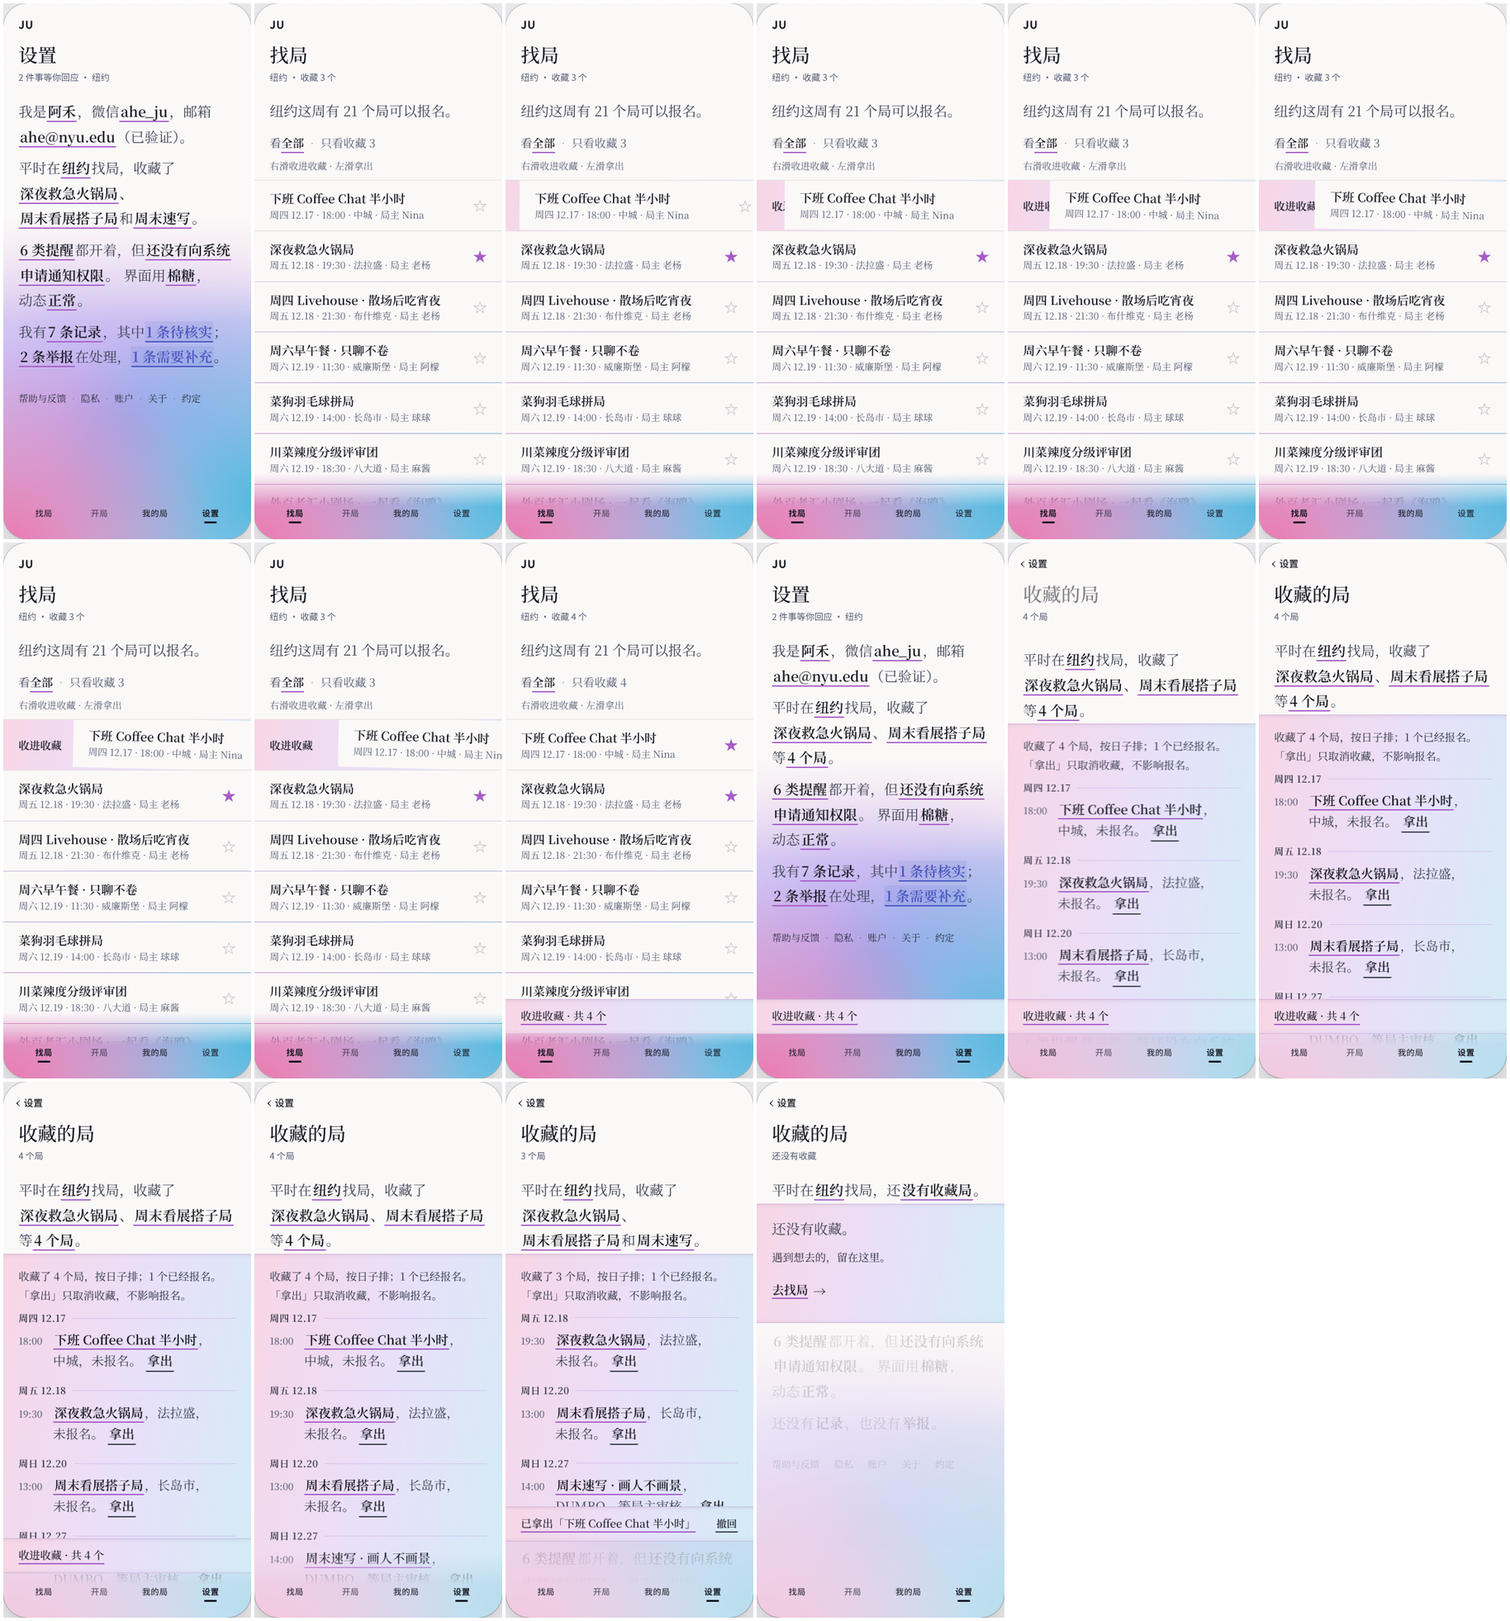
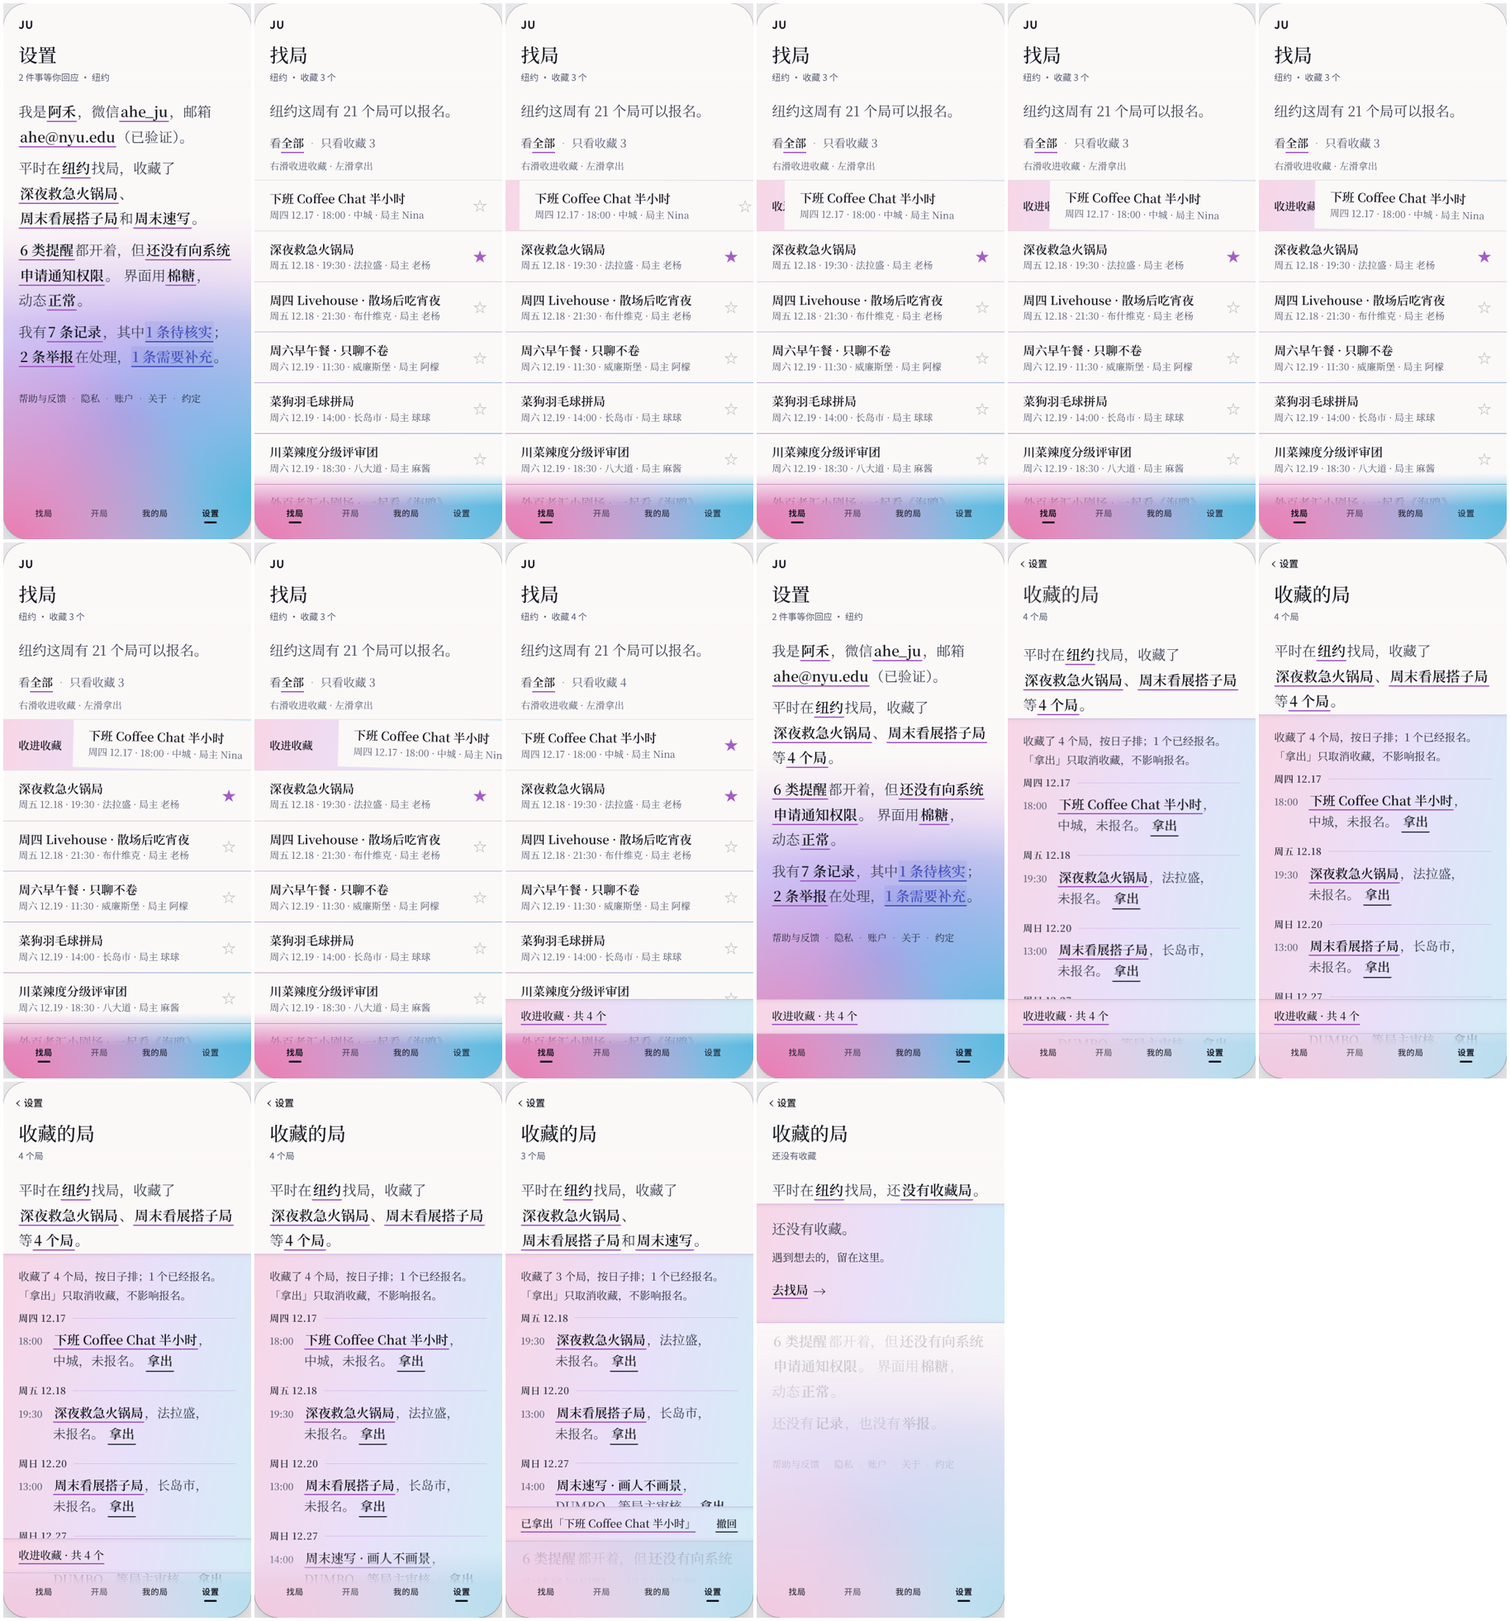
WIP checkpoint: in-flight Settings R2 builder files
Claude-Session: https://claude.ai/code/session_01HHMV8n5dsCb7GnB9ZyBH3p

Changed region(s): [[0.6548, 0.404, 0.8107, 0.6215], [0.686, 0.3418, 0.7172, 0.3729]]

diff --git a/settings-r2/concepts/src/S01.dc.html b/settings-r2/concepts/src/S01.dc.html
@@ -580,22 +580,32 @@ textarea.s01-in{min-height:1lh}
         </section>
       </sc-if>
 
-      <!-- FAVORITES · the count is the page; each 局 is a headline with its date as a numeral -->
+      <!-- FAVORITES · the count is the page; the first entry leads (title, time, place, host); the rest are dated contents lines -->
       <sc-if value="{{c.nav.on.favorites}}" hint-placeholder-val="{{false}}">
         <section class="s01-pg {{c.nav.cls.favorites}}" data-surface="favorites" data-pg="favorites">
           <header class="s01-hd" data-header><div class="s01-tb s01-fa"><div class="s01-tbx"><button type="button" class="s01-back" data-act="back" onClick="{{c.nav.back}}">{{v.bk.favorites}}</button></div></div><div class="s01-fa"><div class="s01-ttl"><span>收藏的局</span></div></div><div class="s01-fa"><div class="s01-aux"><span>{{v.fav.aux}}</span></div></div></header>
           <div class="s01-sc" data-scroller="favorites" onScroll="{{v.h.sc}}">
             <div class="s01-sp2"></div>
             <div class="s01-lead"><span class="s01-lab s01-fx">{{v.fav.kicker}}</span>
-              <sc-if value="{{v.fav.any}}"><span class="s01-lv" data-m="fav-n"><b class="s01-n">{{v.fav.n}}</b>个局</span><p class="s01-ls s01-fx">收藏不等于报名；报名后的进度在「我的局」。</p></sc-if>
-              <sc-if value="{{v.fav.empty}}"><span class="s01-lv" data-m="fav-n">{{c.fav.emptyCopy.title}}</span><p class="s01-ls s01-fx">{{c.fav.emptyCopy.body}}</p><button type="button" class="s01-go s01-fx" onClick="{{c.fav.goFind}}">{{c.fav.emptyCopy.cta}} ›</button></sc-if>
+              <sc-if value="{{v.fav.any}}"><span class="s01-lv{{v.fav.fl}}" data-m="fav-n"><b class="s01-n">{{v.fav.n}}</b>个局</span><p class="s01-ls s01-fx">收藏不等于报名；报名后的进度在「我的局」。</p></sc-if>
+              <sc-if value="{{v.fav.empty}}"><span class="s01-lv{{v.fav.fl}}" data-m="fav-n">{{c.fav.emptyCopy.title}}</span><p class="s01-ls s01-fx">{{c.fav.emptyCopy.body}}</p><button type="button" class="s01-go s01-fx" onClick="{{c.fav.goFind}}">{{c.fav.emptyCopy.cta}} ›</button></sc-if>
             </div>
-            <sc-if value="{{v.fav.hasActive}}"><div class="s01-ents s01-fx"><sc-for list="{{v.fav.active}}" as="r" hint-placeholder-count="3"><div class="s01-ent s01-ex">
-              <button type="button" class="s01-entb s01-nf" data-rid="{{r.id}}" data-origin="fav-{{r.id}}" onClick="{{r.open}}"><span class="s01-dt"><b>{{r.md}}</b><i>{{r.wt}}</i></span><span class="s01-et"><span class="s01-rt" data-m="ev-{{r.id}}">{{r.title}}</span></span></button>
-              <div class="s01-exm"><span class="s01-et"><span class="s01-rm">{{r.meta}}</span><sc-if value="{{r.rel}}"><span class="s01-rel">{{r.rel}}</span></sc-if></span><button type="button" class="s01-x" data-act="unfav" data-rid="{{r.id}}" onClick="{{r.remove}}">拿出</button></div></div></sc-for></div></sc-if>
-            <sc-if value="{{v.fav.hasArch}}"><div class="s01-fx"><span class="s01-lab s01-gl">已结束 · 已取消 · {{v.fav.archN}}</span><div class="s01-ents"><sc-for list="{{v.fav.archived}}" as="r" hint-placeholder-count="2"><div class="s01-ent s01-ex">
-              <button type="button" class="s01-entb s01-nf" data-rid="{{r.id}}" onClick="{{r.open}}"><span class="s01-dt"><b>{{r.md}}</b><i>{{r.status}}</i></span><span class="s01-et"><span class="s01-rt" data-m="ev-{{r.id}}">{{r.title}}</span></span></button>
-              <div class="s01-exm"><span class="s01-et"><span class="s01-rm">{{r.meta}}</span></span><button type="button" class="s01-x" data-act="unfav" data-rid="{{r.id}}" onClick="{{r.remove}}">拿出</button></div></div></sc-for></div></div></sc-if>
+            <sc-if value="{{v.fav.hasActive}}"><div class="s01-ents s01-fx">
+              <sc-if value="{{v.fav.lead}}"><div class="s01-lent{{v.fav.lead.cls}}">
+                <button type="button" class="s01-lentb" data-rid="{{v.fav.lead.id}}" data-origin="fav-{{v.fav.lead.id}}" onClick="{{v.fav.lead.open}}">
+                  <span class="s01-lab">{{v.fav.lead.kicker}}</span>
+                  <span class="s01-rt s01-rt-xl" data-m="ev-{{v.fav.lead.id}}">{{v.fav.lead.title}}</span>
+                  <span class="s01-tg"><span><span class="s01-lab">时间</span><span class="s01-bign">{{v.fav.lead.time}}</span><span class="s01-bigs">{{v.fav.lead.day}}</span></span><span class="s01-stack"><span><span class="s01-lab">地点</span><span class="s01-v2">{{v.fav.lead.hood}}</span></span><span><span class="s01-lab">局主</span><span class="s01-v2">{{v.fav.lead.host}}</span></span></span></span>
+                </button>
+                <div class="s01-lentf"><span class="s01-rel{{v.fav.lead.relCls}}">{{v.fav.lead.rel}}</span><button type="button" class="s01-x" data-act="unfav" data-rid="{{v.fav.lead.id}}" onClick="{{v.fav.lead.rm}}">拿出</button></div>
+              </div></sc-if>
+              <sc-for list="{{v.fav.rest}}" as="r" hint-placeholder-count="2"><div class="s01-ent s01-ex s01-yield{{r.ycls}}"><div class="s01-yi">
+                <button type="button" class="s01-entb s01-nf" data-rid="{{r.id}}" data-origin="fav-{{r.id}}" onClick="{{r.open}}"><span class="s01-dt"><b>{{r.md}}</b><i>{{r.wt}}</i></span><span class="s01-et"><span class="s01-rt" data-m="ev-{{r.id}}">{{r.title}}</span></span></button>
+                <div class="s01-exm"><span class="s01-et"><span class="s01-rm">{{r.meta}}</span><sc-if value="{{r.rel}}"><span class="s01-rel">{{r.rel}}</span></sc-if></span><button type="button" class="s01-x" data-act="unfav" data-rid="{{r.id}}" onClick="{{r.rm}}">拿出</button></div></div></div></sc-for>
+            </div></sc-if>
+            <sc-if value="{{v.fav.hasArch}}"><div class="s01-fx"><span class="s01-lab s01-gl">已结束 · 已取消 · {{v.fav.archN}}</span><div class="s01-ents"><sc-for list="{{v.fav.archived}}" as="r" hint-placeholder-count="2"><div class="s01-ent s01-ex s01-yield{{r.ycls}}"><div class="s01-yi">
+                <button type="button" class="s01-entb s01-nf" data-rid="{{r.id}}" data-origin="fav-{{r.id}}" onClick="{{r.open}}"><span class="s01-dt"><b>{{r.md}}</b><i>{{r.status}}</i></span><span class="s01-et"><span class="s01-rt" data-m="ev-{{r.id}}">{{r.title}}</span></span></button>
+                <div class="s01-exm"><span class="s01-et"><span class="s01-rm">{{r.meta}}</span><sc-if value="{{r.rel}}"><span class="s01-rel">{{r.rel}}</span></sc-if></span><button type="button" class="s01-x" data-act="unfav" data-rid="{{r.id}}" onClick="{{r.rm}}">拿出</button></div></div></div></sc-for></div></div></sc-if>
           </div>
         </section>
       </sc-if>
@@ -686,7 +696,7 @@ textarea.s01-in{min-height:1lh}
               <sc-if value="{{v.rec.empty}}"><span class="s01-lv">{{c.recs.emptyText}}</span></sc-if>
               <p class="s01-ls s01-fx">{{c.recs.help}}</p></div>
             <sc-for list="{{v.rec.groups}}" as="g" hint-placeholder-count="3"><div class="s01-grp s01-fx"><div class="s01-gh"><b>{{g.count}}</b><span>{{g.title}}</span></div>
-              <div class="s01-ents"><sc-for list="{{g.rows}}" as="r" hint-placeholder-count="2"><div class="s01-ent"><button type="button" class="s01-entb" data-rid="{{r.id}}" data-origin="rec-{{r.id}}" onClick="{{r.open}}"><span class="s01-dt"><b>{{r.md}}</b><i>{{r.wt}}</i></span><span class="s01-et"><span class="s01-rt" data-m="rec-{{r.id}}">{{r.title}}</span><span class="s01-rm">{{r.meta}}</span></span><span class="s01-flag{{r.fcls}}">{{r.flag}}</span></button></div></sc-for></div></div></sc-for>
+              <div class="s01-ents"><sc-for list="{{g.rows}}" as="r" hint-placeholder-count="2"><div class="s01-ent"><button type="button" class="s01-entb s01-nf" data-rid="{{r.id}}" data-origin="rec-{{r.id}}" onClick="{{r.open}}"><span class="s01-dt"><b>{{r.md}}</b><i>{{r.wt}}</i></span><span class="s01-et"><span class="s01-rt" data-m="rec-{{r.id}}">{{r.title}}</span><span class="s01-rm">{{r.meta}}</span><sc-if value="{{r.flag}}"><span class="s01-fl2{{r.fcls}}">{{r.flag}}</span></sc-if></span></button></div></sc-for></div></div></sc-for>
             <div class="s01-blk2 s01-fx"><span class="s01-lab s01-gl">记录怎样算</span><p class="s01-read">{{c.recs.creditSettings}}</p><p class="s01-note">{{c.recs.quotaNo}}</p></div>
           </div>
         </section>
@@ -716,7 +726,7 @@ textarea.s01-in{min-height:1lh}
         </section>
       </sc-if>
 
-      <!-- REPORTS -->
+      <!-- REPORTS · the report that needs you leads with its status said large; the rest are dated contents lines -->
       <sc-if value="{{c.nav.on.reports}}" hint-placeholder-val="{{false}}">
         <section class="s01-pg {{c.nav.cls.reports}}" data-surface="reports" data-pg="reports">
           <header class="s01-hd" data-header><div class="s01-tb s01-fa"><div class="s01-tbx"><button type="button" class="s01-back" data-act="back" onClick="{{c.nav.back}}">{{v.bk.reports}}</button></div></div><div class="s01-fa"><div class="s01-ttl"><span>我的举报</span></div></div><div class="s01-fa"><div class="s01-aux"><span>{{c.sum.reportLabel}}</span></div></div></header>
@@ -726,7 +736,18 @@ textarea.s01-in{min-height:1lh}
               <sc-if value="{{v.rp.any}}"><span class="s01-lv" data-m="rep-n"><b class="s01-n">{{v.rp.n}}</b>条</span></sc-if>
               <sc-if value="{{v.rp.empty}}"><span class="s01-lv">{{c.reps.emptyText}}</span></sc-if>
               <p class="s01-ls s01-fx">{{c.reps.note}}</p></div>
-            <sc-if value="{{v.rp.any}}"><div class="s01-ents s01-fx"><sc-for list="{{v.rp.rows}}" as="r" hint-placeholder-count="2"><div class="s01-ent"><button type="button" class="s01-entb" data-rid="{{r.id}}" data-origin="rep-{{r.id}}" onClick="{{r.open}}"><span class="s01-dt"><b>{{r.md}}</b><i>{{r.wt}}</i></span><span class="s01-et"><span class="s01-rt" data-m="rep-{{r.id}}">{{r.title}}</span><span class="s01-rm">{{r.meta}}</span></span><span class="s01-flag{{r.fcls}}">{{r.flag}}</span></button></div></sc-for></div></sc-if>
+            <sc-if value="{{v.rp.any}}"><div class="s01-ents s01-fx">
+              <sc-if value="{{v.rp.lead}}"><div class="s01-lent">
+                <button type="button" class="s01-lentb" data-rid="{{v.rp.lead.id}}" data-origin="rep-{{v.rp.lead.id}}" onClick="{{v.rp.lead.open}}">
+                  <span class="s01-lab">{{v.rp.lead.kicker}}</span>
+                  <span class="s01-rt s01-rt-xl" data-m="rep-{{v.rp.lead.id}}">{{v.rp.lead.title}}</span>
+                  <span class="s01-say s01-say-s{{v.rp.lead.sayCls}}">{{v.rp.lead.status}}</span>
+                  <span class="s01-tg"><span><span class="s01-lab">更新</span><span class="s01-bign">{{v.rp.lead.md}}</span><span class="s01-bigs">{{v.rp.lead.hm}}</span></span><span class="s01-stack"><span><span class="s01-lab">举报对象</span><span class="s01-v2">{{v.rp.lead.who}}</span></span><span><span class="s01-lab">本地编号</span><span class="s01-v2 s01-v2n">{{v.rp.lead.no}}</span></span></span></span>
+                  <span class="s01-go2">{{v.rp.lead.cta}}</span>
+                </button>
+              </div></sc-if>
+              <sc-for list="{{v.rp.rest}}" as="r" hint-placeholder-count="1"><div class="s01-ent"><button type="button" class="s01-entb s01-nf" data-rid="{{r.id}}" data-origin="rep-{{r.id}}" onClick="{{r.open}}"><span class="s01-dt"><b>{{r.md}}</b><i>{{r.wt}}</i></span><span class="s01-et"><span class="s01-rt" data-m="rep-{{r.id}}">{{r.title}}</span><span class="s01-rm">{{r.meta}}</span><span class="s01-fl2{{r.fcls}}">{{r.flag}}</span></span></button></div></sc-for>
+            </div></sc-if>
             <p class="s01-note s01-fx">{{c.reps.mock}}</p>
           </div>
         </section>
@@ -782,7 +803,7 @@ textarea.s01-in{min-height:1lh}
         </section>
       </sc-if>
 
-      <!-- ACCOUNT · the only page (with 关于) that states the demo boundary -->
+      <!-- ACCOUNT · the only page (with 关于) that states the demo boundary; what stays on this device is said in numbers -->
       <sc-if value="{{c.nav.on.account}}" hint-placeholder-val="{{false}}">
         <section class="s01-pg {{c.nav.cls.account}}" data-surface="account" data-pg="account">
           <header class="s01-hd" data-header><div class="s01-tb s01-fa"><div class="s01-tbx"><button type="button" class="s01-back" data-act="back" onClick="{{c.nav.back}}">{{v.bk.account}}</button></div></div><div class="s01-fa"><div class="s01-ttl"><span>账户与本机数据</span></div></div><div class="s01-fa"><div class="s01-aux"><span>{{c.acct.device}}</span></div></div></header>
@@ -790,24 +811,26 @@ textarea.s01-in{min-height:1lh}
             <div class="s01-sp2"></div>
             <div class="s01-lead"><span class="s01-lab s01-fx">本机会话</span><span class="s01-lv{{v.ac.fl}}">{{v.ac.state}}</span><p class="s01-ls s01-fx">{{v.ac.line}}</p>
               <sc-if value="{{c.acct.ended}}"><button type="button" class="s01-cta s01-cta-in s01-fx" data-act="restart" onClick="{{v.ac.restart}}">重新开始</button></sc-if></div>
-            <p class="s01-read s01-fx">{{c.acct.noAccount}}</p>
-            <div class="s01-vg s01-fx"><div><span class="s01-lab">设备</span><span class="s01-v2">{{c.acct.device}}</span></div><div><span class="s01-lab">本机数据</span><span class="s01-v2 s01-v2n">{{v.ac.key}}</span></div></div>
-            <p class="s01-sub s01-fx">{{c.acct.storageNote}}</p>
+            <div class="s01-fx"><span class="s01-lab s01-gl">{{v.ac.keepLabel}}</span><div class="s01-cnts"><sc-for list="{{v.ac.counts}}" as="x" hint-placeholder-count="4"><div><b>{{x.n}}</b><span>{{x.label}}</span></div></sc-for></div></div>
+            <p class="s01-read s01-fx">{{c.acct.storageNote}}</p>
+            <p class="s01-note s01-fx">{{c.acct.noAccount}}</p>
             <sc-if value="{{c.acct.demo}}"><div class="s01-acts s01-fx"><button type="button" class="s01-go s01-danger" data-act="end" onClick="{{c.acct.end}}">退出登录（本地演示）</button></div></sc-if>
           </div>
         </section>
       </sc-if>
 
-      <!-- ABOUT -->
+      <!-- ABOUT · the agreement in force is the protagonist; its three groups are counted; build facts are annotations -->
       <sc-if value="{{c.nav.on.about}}" hint-placeholder-val="{{false}}">
         <section class="s01-pg {{c.nav.cls.about}}" data-surface="about" data-pg="about">
           <header class="s01-hd" data-header><div class="s01-tb s01-fa"><div class="s01-tbx"><button type="button" class="s01-back" data-act="back" onClick="{{c.nav.back}}">{{v.bk.about}}</button></div></div><div class="s01-fa"><div class="s01-ttl"><span>关于与规则</span></div></div><div class="s01-fa"><div class="s01-aux"><span>{{c.about.version}}</span></div></div></header>
           <div class="s01-sc" data-scroller="about" onScroll="{{v.h.sc}}">
             <div class="s01-sp2"></div>
-            <div class="s01-lead"><span class="s01-lab s01-fx">参加约定版本</span><span class="s01-lv s01-lv-c">{{c.about.rulesVersion}}</span><p class="s01-ls s01-fx">{{c.about.demo}}</p></div>
-            <div class="s01-list s01-fx"><button type="button" class="s01-row" data-origin="rules" onClick="{{c.about.goRules}}"><span class="s01-rb"><span class="s01-rt" data-m="rules-n"><b class="s01-n">18</b>条约定</span><span class="s01-rm">确认 · 信用 · 赴约</span></span><span class="s01-rr is-flag">读全文 ›</span></button></div>
+            <div class="s01-lead"><span class="s01-lab s01-fx">现行参加约定 · 第 1 版</span><span class="s01-lv" data-m="rules-n"><b class="s01-n">18</b>条约定</span><p class="s01-ls s01-fx">{{c.about.demo}}</p></div>
+            <button type="button" class="s01-cnts is-3 s01-fx" data-origin="rules" aria-label="读全部约定" onClick="{{c.about.goRules}}"><sc-for list="{{v.ab.groups}}" as="g" hint-placeholder-count="3"><span><b>{{g.n}}</b><span>{{g.name}}</span><i>{{g.line}}</i></span></sc-for></button>
+            <div class="s01-acts s01-fx"><button type="button" class="s01-go" data-origin="rules" onClick="{{c.about.goRules}}">读全部约定 ›</button></div>
             <p class="s01-read s01-fx">{{c.about.policyNote}}</p>
-            <div class="s01-vg s01-fx"><div><span class="s01-lab">构建</span><span class="s01-v2 s01-v2n">{{v.ab.built}}</span></div><div><span class="s01-lab">可选城市</span><span class="s01-v2">{{c.about.cities}} 座</span></div></div>
+            <div class="s01-vg s01-fx"><div><span class="s01-lab">原型</span><span class="s01-v2">{{c.about.version}}</span></div><div><span class="s01-lab">构建</span><span class="s01-v2 s01-v2n">{{v.ab.built}}</span></div></div>
+            <p class="s01-note s01-fx">约定编号 {{c.about.rulesVersion}} · 可选城市 {{c.about.cities}} 座</p>
           </div>
         </section>
       </sc-if>
@@ -864,9 +887,9 @@ textarea.s01-in{min-height:1lh}
           <div class="s01-sc" data-scroller="seam-mine" onScroll="{{v.h.sc}}">
             <div class="s01-sp2"></div>
             <div class="s01-lead"><span class="s01-lab s01-fx">进行中</span><span class="s01-lv"><b class="s01-n">{{v.mn.n}}</b>个局</span><p class="s01-ls s01-fx">{{v.mn.line}}</p></div>
-            <sc-for list="{{v.mn.groups}}" as="g" hint-placeholder-count="3"><div class="s01-fx"><span class="s01-lab s01-gl">{{g.title}}</span><div class="s01-ents"><sc-for list="{{g.rows}}" as="r" hint-placeholder-count="2"><div class="s01-ent s01-mr{{r.mrCls}}">
-              <div class="s01-entb s01-nf"><span class="s01-dt"><b>{{r.md}}</b><i>{{r.wt}}</i></span><span class="s01-et"><span class="s01-rt" data-m="mine-{{r.id}}">{{r.title}}</span><span class="s01-rm">{{r.label}}</span><sc-if value="{{r.receipt}}"><span class="s01-rel">举报回执 · {{r.receipt}}</span></sc-if></span></div>
-              <div class="s01-mra"><sc-if value="{{r.canReport}}"><button type="button" class="s01-x" data-act="report" data-rid="{{r.id}}" onClick="{{r.report}}">举报</button></sc-if><button type="button" class="s01-star{{r.scls}}" data-act="fav" data-rid="{{r.id}}" aria-pressed="{{r.favP}}" aria-label="收藏" onClick="{{r.toggleFav}}">{{r.star}}</button></div></div></sc-for></div></div></sc-for>
+            <sc-for list="{{v.mn.groups}}" as="g" hint-placeholder-count="3"><div class="s01-fx"><span class="s01-lab s01-gl">{{g.title}}</span><div class="s01-ents"><sc-for list="{{g.rows}}" as="r" hint-placeholder-count="2"><div class="s01-ent s01-mr">
+              <div class="s01-entb s01-nf"><span class="s01-dt"><b>{{r.md}}</b><i>{{r.wt}}</i></span><span class="s01-et"><span class="s01-rt" data-m="mine-{{r.id}}">{{r.title}}</span><span class="s01-rm">{{r.label}}</span><sc-if value="{{r.receipt}}"><span class="s01-rel">举报回执 · {{r.receipt}}</span></sc-if><sc-if value="{{r.canReport}}"><button type="button" class="s01-x s01-xr" data-act="report" data-rid="{{r.id}}" onClick="{{r.report}}">举报这个局 ›</button></sc-if></span></div>
+              <div class="s01-mra"><button type="button" class="s01-star{{r.scls}}" data-act="fav" data-rid="{{r.id}}" aria-pressed="{{r.favP}}" aria-label="收藏" onClick="{{r.toggleFav}}">{{r.star}}</button></div></div></sc-for></div></div></sc-for>
             <p class="s01-note s01-fx">{{c.mine.snapshotNote}}</p>
           </div>
         </section>
